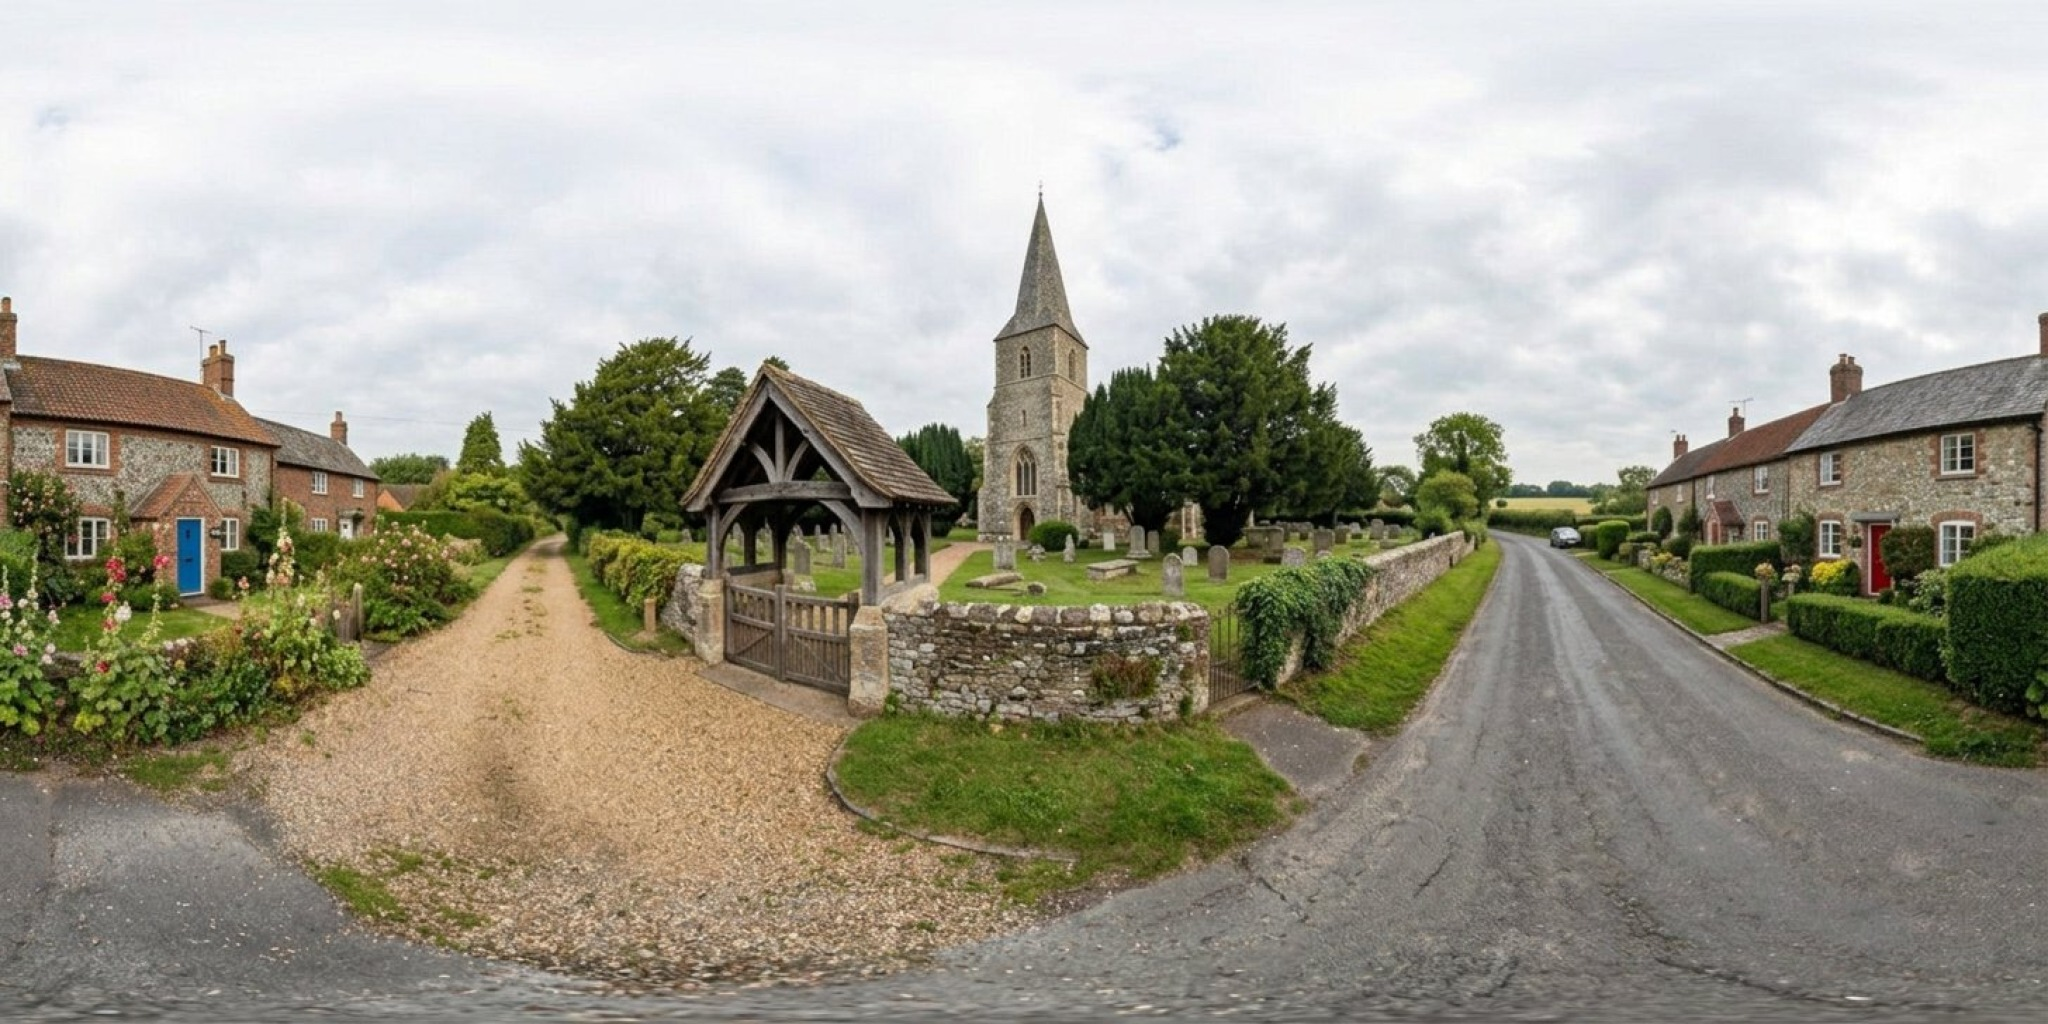
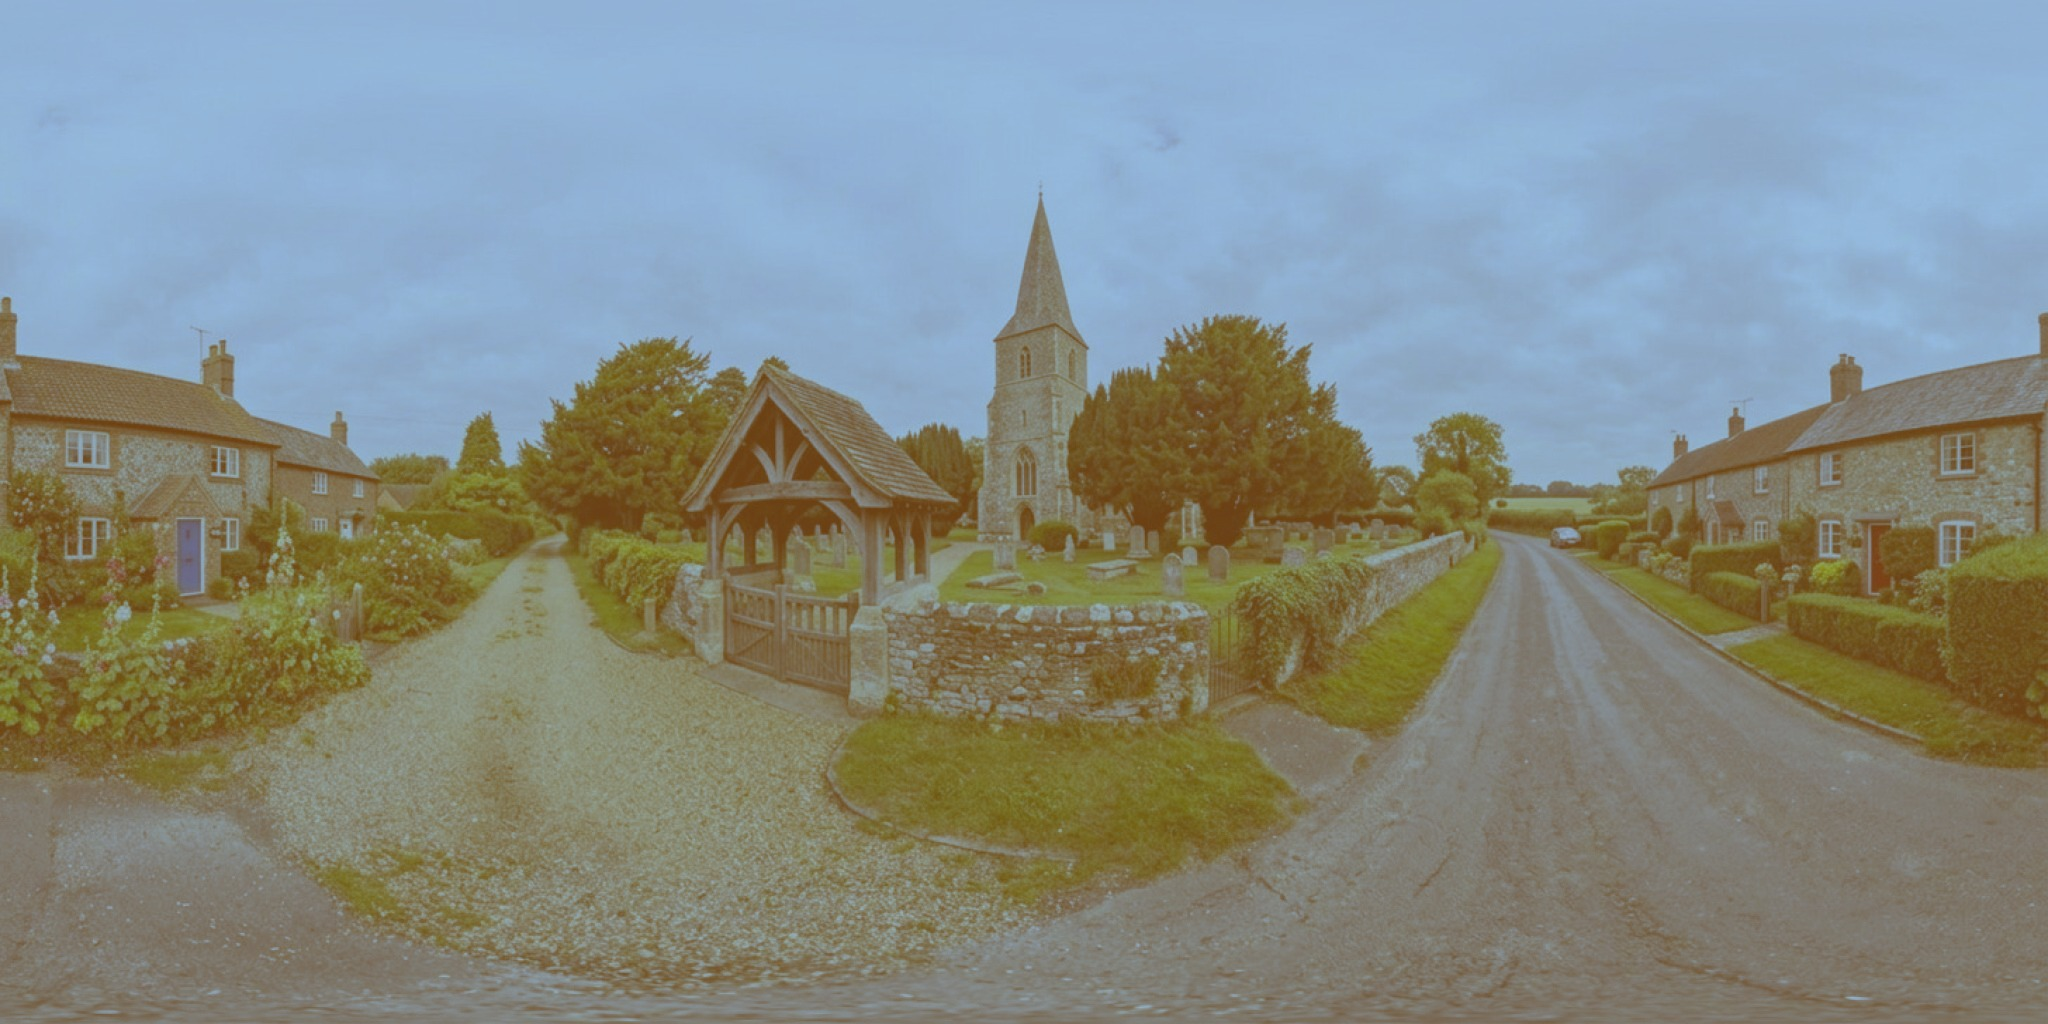
willow iteration 19: audit pass 2 — 10 frames, exposure-family affine fix, offender backlog cleared to n3/n48/n201

diff --git a/finx_genmap.md b/finx_genmap.md
@@ -40,6 +40,7 @@ parallax. Same overcast daylight, no people, no text."
 | 16 | ring cells around anchors n82/n59/n83/n35/n86/n36/n88 (streetside) + n246/n256/n312 (lane seams) | S chain ×7 + W seams ×2 + E seam ×1 | **10** | n125 (6.9 m W ← n246) — closes the n1–n13 seam; n130 (6.9 m W ← n256, Green Road); n158 (6.9 m E ← n312, Meadow Rise); n163 (6.3 m S ← n82), n164 (S ← n59), n165 (S ← n83), n166 (S ← n35), n171 (S ← n86), n174 (S ← n36), n175 (S ← n88) | ✓ n163←n82 visual: same willow, church tower, cottages. ⚠ n125 drifted to an open-meadow look — RE-CHECK against n246/n247 (regenerate if it offends) |
 | 17 | USER OVERRIDE: supersede ring-resume — go back to point_correct_1 and add MORE steps to the +x chains; PLUS user anti-drift audit command | 4 m sub-stride stage added to densify (637 nodes / 636 edges / max hop 3.75 m, all earlier imgs unchanged); OpenCV auditor `tools-render/chain-audit.py` (collapsed-branch walkable pairs: HSV correl + sky-band Δ + exposure Δ) ran over all frames: 145 pairs, worst breaks fixed | **10 regenerations** | n119←n117, n124←n246, n116←n115, n244←n1, n82←n162, n90←n62, n91←n63, n97←n66, n93←n64, n17←n78 | ✓ breaks n11↔n119 (−0.68), n124↔n245 (−0.32), n63↔n91, n82↔n162, n97-family all cleared. Residual offenders: n3↔n45 (−0.654), n9↔n116 (canopy-vs-open false-positive risk + palette), n1↔n244 (still −0.146, skyΔ 83 — regenerate n244 again next turn), n37↔n91, n4↔n94 |
 | 18 | finish audit-fix queue, then point_correct_2 (n2, green junction) +x fill | point-1 sub-strides restored + n244 re-fix with hard sky lock; point-2 north chain n335..n332 + west knot n510 | **10** | n320←n1, n321←n162, n322←n82, n323←n163 (3.1 m sub-strides); n244←n1 (re-fix #2); n335←n2, n334←n169, n333←n85, n332←n168 (point-2 north chain); n510←n2 (point-2 A-branch 3.4 m W) | ⚠ audit: n335 itself drifted (−0.29, skyΔ 74) — queued for pass 2; n320↔n162 flagged 0.06; n3↔n45 (−0.654) still open; rest normalized |
+| 19 | anti-drift audit pass 2 + point-1 sub-stride fill | auditor v2: SIFT keypoint persistence + matched-patch LAB drift (door/car material changes; SAM substitute — no GPU in sandbox); regenerations with sky-lock; brightened edits fixed by per-channel BGR affine (sky+expo matched to source) | **10** | n335←n169 (re-fix ✓), n320←n162 (re-fix ✓), n448←n1, n449←n226, n450←n114, n451←n43, n486←n1, n487←n124, n45←n14, n94←n4 (+BGR affine on n448/n486/n320/n94) | ✓ cleared: n169↔n335, n2↔n335, n162↔n320, n1↔n244, n1↔n448/n486, n4↔n94, n14↔n45. Still open: n3↔n45 (−0.654→−0.038; n3 itself is the dark-exposure anomaly — queue regen n3←n89), n37↔n91, n17↔n48, n16↔n48, n101↔n201, n226↔n448 (underlying n1↔n226 family gap) |
 
 ## Anti-drift rule (user directive, permanent)
 
@@ -61,4 +62,4 @@ parallax. Same overcast daylight, no people, no text."
 
 ## Cursor
 
-`anchor=point_correct_2 (n2, green junction) +x fill IN PROGRESS. Iteration 19 queue: (1) re-fix n335 (its own edit drifted; try ←n169 with sky-lock), n320↔n162 (0.06) — re-generate n320 ← n162 instead of n1, (2) missing point-1 sub-strides n448..n451 / n486..n487 + n317/n318 (ring hole unlock), (3) fix remaining audit offenders n3↔n45 (−0.654), n4↔n94, n37↔n91, n169↔n335, (4) continue point-2 chains past n332/n339 (North/South Road) + n511..n513 (Green Road W), then resume ring scan. Report in tools-render/chain-audit.txt before/after.`
+`anchor=point_correct_2 (n2, green junction) +x fill IN PROGRESS. Iteration 20 queue: (1) fix remaining audit offenders — regen n3←n89 (dark-exposure anomaly; n3↔n45, n3↔n89, n3↔n90 all break on it), n91←n37 family re-check, n48-family (n17↔n48, n16↔n48; regen n48←n16 or n17), n201←n101 (skyΔ 92), (2) n317/n318 sub-strides (ring-hole unlock — nearest existing n32 is 5+ hops, generate n317←n32 long-edit or densify inward from n32 first), (3) continue point-2 chains past n332/n339 (North/South Road) + n511..n513 (Green Road W), then resume ring scan. Rule: dark-source edits (n1/n162/n4/n3 family) come back brightened — re-apply per-channel BGR affine (sky+expo match to source) immediately after normalization. Report in tools-render/chain-audit.txt before/after.`
